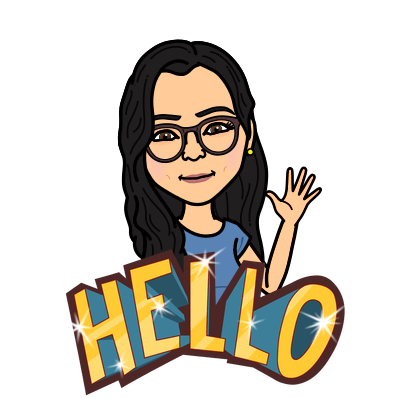
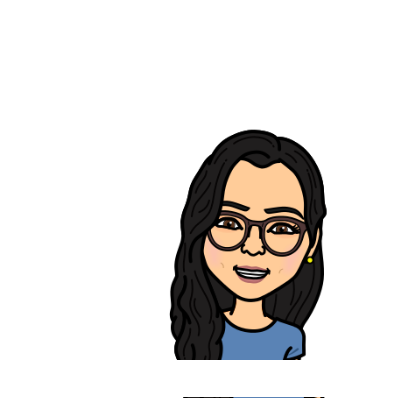
text on re-colored boxes
set class name for text in different sections and change jquery accordingly

diff --git a/index.html b/index.html
@@ -24,16 +24,28 @@
 			<div id="landing-overlay"></div>
 			<div id="landing-div-spine">
 				<div id="0" class="landing-re-color">
-					<div>#ffffff</div>
+					<div class="code">#ffffff</div>
+					<div id="4" class="landing-re-text">
+						<div>OcuSense</div>
+					</div>
 				</div>
 				<div id="1" class="landing-re-color">
-					<div>#D1FAEC</div>
+					<div class="code">#D1FAEC</div>
+					<div id="5" class="landing-re-text">
+						<div>Favors for Neighbors</div>
+					</div>
 				</div>
 				<div id="2" class="landing-re-color">
-					<div>#A3F5DA</div>
+					<div class="code">#A3F5DA</div>
+					<div id="6" class="landing-re-text">
+						<div>Tangible Hope</div>
+					</div>
 				</div>
 				<div id="3" class="landing-re-color">
-					<div>#75F0C7</div>
+					<div class="code">#75F0C7</div>
+					<div id="7" class="landing-re-text">
+						<div>AZ Lyrics Redesign</div>
+					</div>
 				</div>
 			</div>
 			<div id="landing-button-spine">
@@ -42,7 +54,7 @@
 					<p class='button-text'>design</p>
 				</div>
 				<div id="landing-writing" class="landing-button inactive writing_coloring">
-					<p class='button-text'>writing</p>
+					<p class='button-text'>writing+</p>
 				</div>
 				<div id="landing-about" class="landing-button inactive about_coloring">
 					<p class='button-text'>about</p>

diff --git a/assets/js/script.js b/assets/js/script.js
@@ -1,14 +1,22 @@
 $(document).ready(function() {
     $(".design_coloring").click(function() {
-        for (let value of Array.from($(".landing-re-color"))){
+        for (let value of Array.from($(".landing-re-color .code"))){
             let hex_val = value.textContent;
-            $(value).attr("style", "background:" + hex_val);
+            $(value).parent().attr("style", "background:" + hex_val);
+        }
+        for (let text of Array.from($(".landing-re-text"))){
+            let text_content = text.textContent;
+            $(text).html(text_content)
         }
     })
     $(".writing_coloring").click(function() {
             for (let value of Array.from($(".landing-re-color"))){
                 let id = $(value).attr('id');
                 $(value).attr('style','background:rgb(185,'+ (id*95) + "," + (id*150) + ")");
+            }
+            for (let text of Array.from($(".landing-re-text"))){
+                let text_content = "Daily Californian" + "TutorMing" + "mildlysatiricalconfessions" + "misc."
+                $(text).html(text_content)
             }
     })
     $(".about_coloring").click(function() {

diff --git a/assets/css/style.css b/assets/css/style.css
@@ -52,13 +52,14 @@ p{
 #landing-text{
 	text-align: left;
 	margin-left:6.5%;
+	z-index:2;
 }
 
 #landing-button-spine {
    /* width: 100%;*/
     position: fixed;
    /* text-align: justify;
-*/    z-index: 2;
+*/  z-index: 2;
     /*justify-content: center;*/
 	/*display:flex;*/
 	/*flex-wrap:wrap;*/
@@ -77,8 +78,9 @@ p{
 
 #landing-photo{
 	position: absolute;
-	top:7%;
-	left:55%;
+	top:-11%;
+	left:50%;
+	z-index: -1;
 }
 
 .button-text{
@@ -94,10 +96,29 @@ p{
     border-radius: 10%;
     transition: 2s;
     margin: 0.5%;
+    z-index: 0;
 }
-.landing-re-color > div {
+
+.landing-re-color > .code {
     display: none;
 }
+
+.landing-re-text {
+	z-index:2;
+	display:inline-block;
+	text-align: center;
+	margin:40%;
+	transition: 3s;
+}
+
+.landing-re-text > div {
+	display:none;
+}
+
+/*.landing-re-text > div {
+    display: none;
+}*/
+
 #landing-div-spine {
 	justify-content: center;
 	display:flex;
